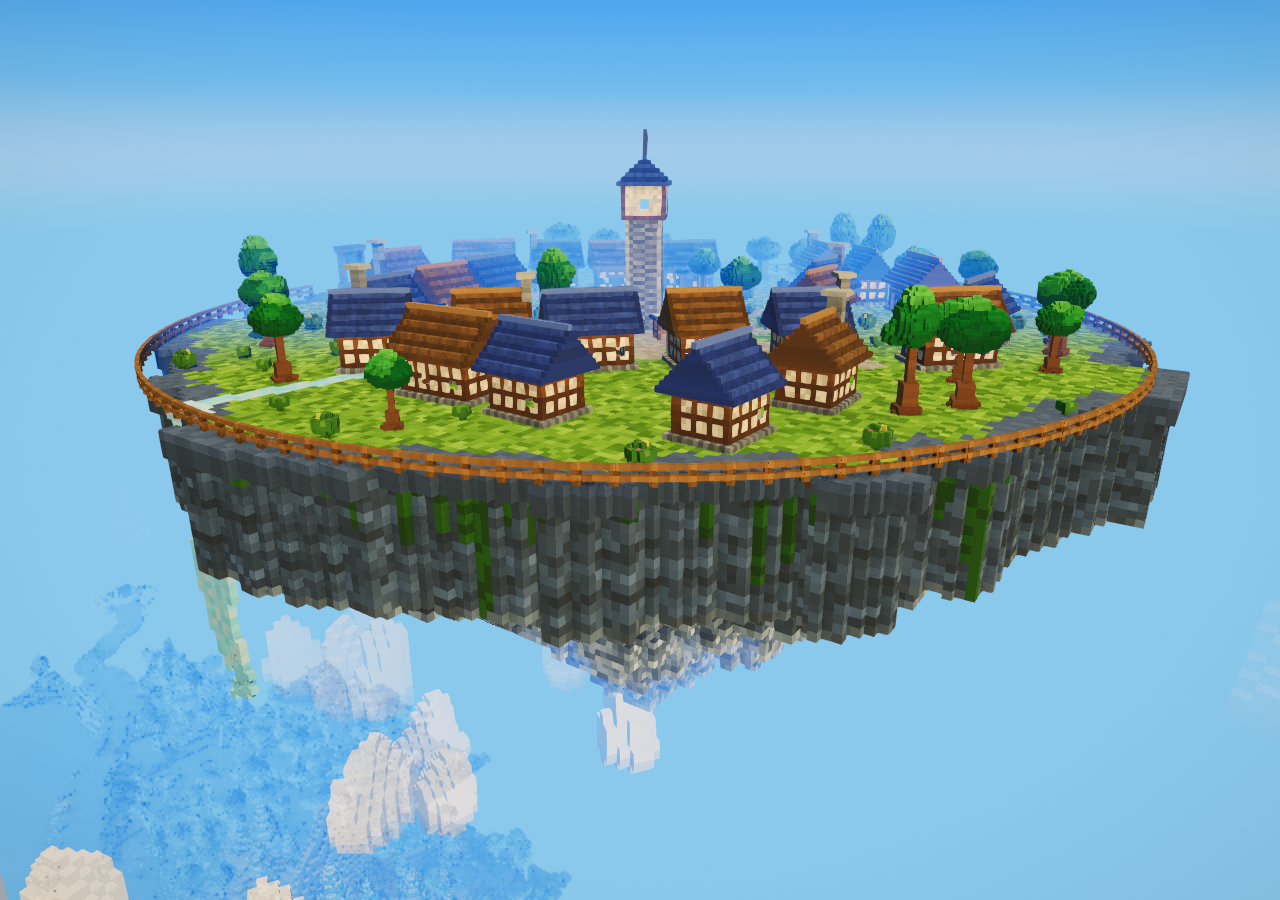
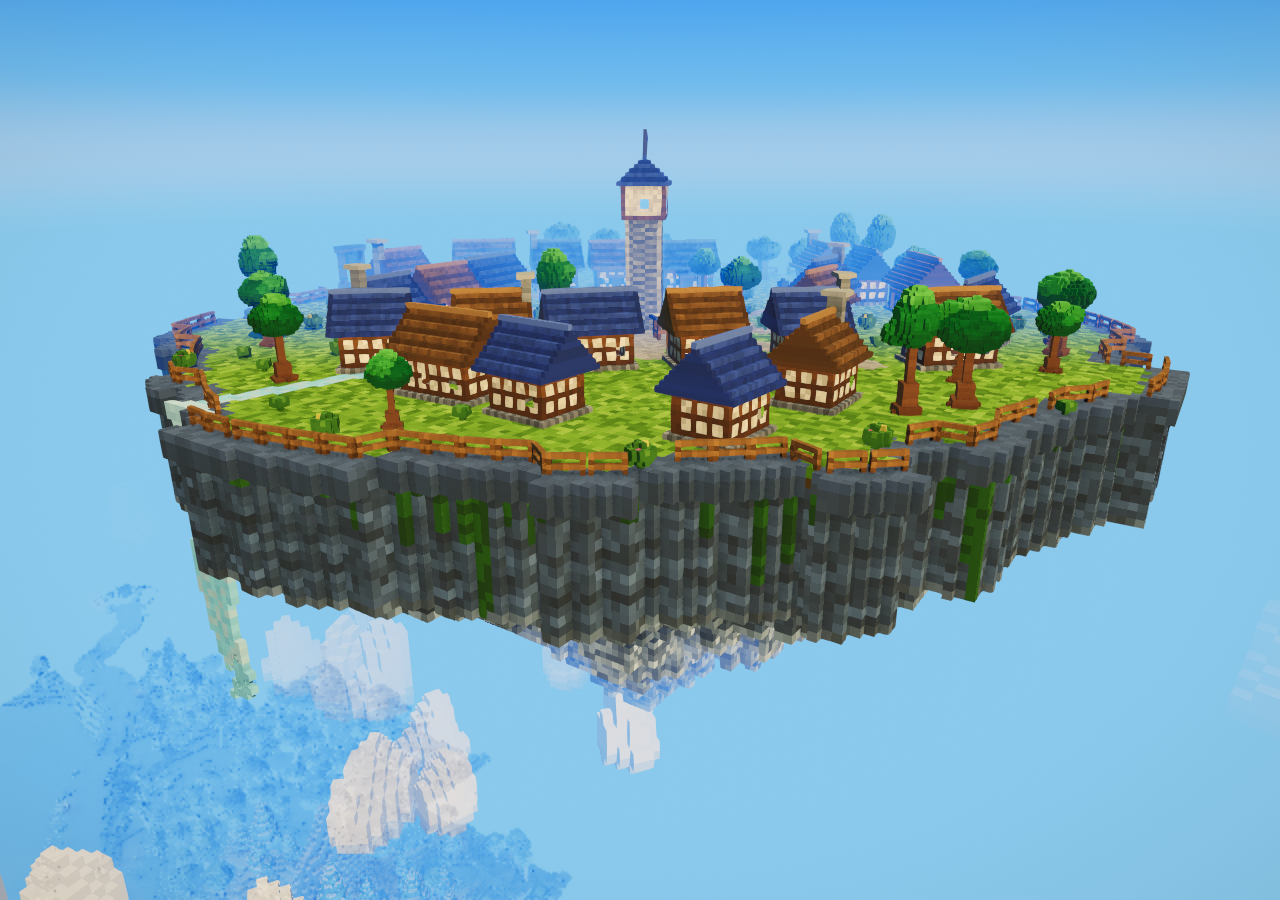
The fence follows the coast, the mount stays under its rider, and the island's colliders are drawable
Four fixes, three of them the same shape: something that was exact while every
built thing stood on the ground, and stopped being exact once a settlement
started flying over it.

THE FENCE HUNG IN OPEN AIR. Panels were placed on a circle at `ISLAND_R *
0.93`, and the island is not a circle — `outlineAt` carries four harmonics
summing to as much as a third of the radius, so a constant fraction is inside
the land on one bearing and out past the cliff on the next. The rim is WALKED
now: step the bearing finely, take the coast's own radius at each step, and
drop a panel every time the accumulated distance reaches one panel's length.
That fixes the spacing too, which a constant angular step gets wrong the
moment the radius varies. Both ENDS of each panel are tested for ground, not
just its centre: a panel is a straight chord across a curve, so on a tight
inside bend its ends reach further out than its middle does.

THE MOUNT DRIFTED OUT FROM UNDER ITS RIDER IN A MENU. `carry` moved the saddle
and re-seated the hero, but a beast's rig is only written by `rideUpdate`,
which lives in `updateRide` and a modal skips. So on the island the position
and the rider travelled and the animal stayed where it was. `poseBeast` is
that push extracted, and `carryFrozen` — the frozen path only — calls it.
Deliberately NOT on the ordinary path, where `updateRide` already does it:
calling both would run the animal's animation clock at double rate.
[…]

Changed region(s): [[0.0938, 0.3422, 0.9375, 0.56], [0.7812, 0.3111, 0.8125, 0.3422], [0.2188, 0.3111, 0.25, 0.3422]]

diff --git a/src/world/sky-island.ts b/src/world/sky-island.ts
@@ -794,7 +794,22 @@ const HOUSE_R = 7.2;
  * in the middle, roofs at several angles, streets converging, a tree line, and
  * a gate that tells you which side is the front.
  */
-function planSkyhaven(seed: number, parts: SkyParts, lib: PropLib): SkyPlan {
+/**
+ * @param onDeck Is there ground under this point? THE PLAN HAS TO BE ABLE TO
+ *   ASK. Everything here used to be placed on a radius — a fence at 0.93 of the
+ *   radius, trees at 0.74 — which is exact only if the island is a circle, and
+ *   it deliberately is not: `outlineAt` carries four harmonics summing to as
+ *   much as a third of the radius, so a ring drawn at a constant fraction is
+ *   inside the land on one bearing and out over the drop on the next. That is
+ *   the fence hanging in mid-air over the void.
+ * @param rimAt The rim's world radius at a bearing, so the fence can follow the
+ *   coast instead of cutting across it.
+ */
+function planSkyhaven(
+  seed: number, parts: SkyParts, lib: PropLib,
+  onDeck: (x: number, z: number) => boolean,
+  rimAt: (bearing: number) => number,
+): SkyPlan {
   const rng = mulberry32(seed ^ 0x5c17);
   const buildings: Array<{ t: Template; x: number; z: number; yaw: number; s?: number }> = [];
   const paths: Array<readonly [number, number, number, number]> = [];
@@ -965,39 +980,60 @@ function planSkyhaven(seed: number, parts: SkyParts, lib: PropLib): SkyPlan {
   }
 
   // -- the rim fence --------------------------------------------------------
-  // ONE CONTINUOUS RAIL AROUND THE RIM, broken only by what is actually in its
-  // way. It marks the edge; it does not close it — you can still walk off,
-  // because the rail is a low one and the gaps at the gate and the fall are
-  // real openings rather than decoration.
+  // ONE CONTINUOUS RAIL, WALKED ALONG THE ACTUAL COAST. It marks the edge; it
+  // does not close it — the rail is low, and the breaks at the gate and at
+  // whatever the tree line put on the rim are real openings.
   //
-  // THE YAW IS THE BEARING, NOT THE BEARING PLUS A QUARTER TURN, and that was a
-  // real bug rather than a taste: `skyFence` paints its posts and rails along
-  // its LOCAL +X, and the stamp maps local +X to world (cos yaw, -sin yaw)
-  // (see `Accum.add`). The rim's tangent at bearing `a` is (cos a, -sin a), so
-  // the panel runs along the rim exactly when `yaw === a`. At `a + PI/2` local
-  // +X maps to the RADIAL direction instead, so every panel stood at right
-  // angles to the edge — a ring of rails pointing out over the drop like the
-  // spokes of a wheel, which is what shipped.
+  // IT USED TO BE A CIRCLE AND THE ISLAND IS NOT ONE. Panels were placed at a
+  // constant `ISLAND_R * 0.93`, which is inside the land on one bearing and out
+  // over the drop on the next, because `outlineAt` carries four harmonics
+  // summing to as much as a third of the radius. Whole runs of fence hung in
+  // open air past the cliff. So the rim is WALKED: step the bearing finely,
+  // take the coast's own radius at each step, and drop a panel every time the
+  // accumulated distance reaches one panel's length. That also fixes the
+  // spacing, which a constant angular step gets wrong the moment the radius
+  // varies — the same number of panels over a longer arc is a gappy fence.
   //
-  // THE PANELS OVERLAP SLIGHTLY. A panel is 7 cells of `SV` = 4.2 units long
-  // and it is a straight chord across an arc, so spacing them at exactly their
-  // own length leaves a hair of daylight at every joint and the run reads as
-  // separate pieces. Dividing by 3.9 rather than 4.2 laps them by about 7%,
-  // which is under half a post and reads as one rail.
-  const fenceR = ISLAND_R * 0.93;
-  const panels = Math.round((Math.PI * 2 * fenceR) / 3.9);
-  for (let k = 0; k < panels; k++) {
-    const a = (k / panels) * Math.PI * 2;
-    const x = Math.sin(a) * fenceR;
-    const z = Math.cos(a) * fenceR;
-    // The only breaks are things that are genuinely there: the gate and its
-    // approach, and whatever the tree line has put on the rim. Probed tightly
-    // (1.2 rather than 2.4) because the point is a continuous run — a generous
-    // probe punches holes in it for props that merely stand nearby.
-    if (!free(x, z, 1.2)) continue;
-    // A whisker of lean, so it is a built fence rather than a lathe-turned
-    // ring. Small enough that neighbouring panels still meet.
-    fences.push({ x, z, yaw: a + (hash2(k, 1, 97) - 0.5) * 0.05 });
+  // THE YAW IS THE DIRECTION OF TRAVEL. `skyFence` paints along its local +X
+  // and the stamp maps local +X to world (cos yaw, -sin yaw), so a panel lies
+  // along a heading (ux, uz) exactly when `yaw = atan2(-uz, ux)`. It was the
+  // bearing plus a quarter turn once, which maps +X to the RADIAL direction: a
+  // ring of rails standing out over the edge like the spokes of a wheel.
+  {
+    /** How far inside the coast the posts stand, in world units. */
+    const INSET = 3.2;
+    /** Panel length: 7 cells of `SV`, lapped a little so the joints close. */
+    const SPACING = 7 * 0.6 * 0.94;
+    const rimPt = (a: number): [number, number] => {
+      const r = Math.max(2, rimAt(a) - INSET);
+      return [Math.sin(a) * r, Math.cos(a) * r];
+    };
+    const STEPS = 720;
+    let [lx, lz] = rimPt(0);
+    for (let i = 1; i <= STEPS; i++) {
+      const a = (i / STEPS) * Math.PI * 2;
+      const [x, z] = rimPt(a);
+      const dx = x - lx;
+      const dz = z - lz;
+      const d = Math.hypot(dx, dz);
+      if (d < SPACING) continue;
+      const ux = dx / d;
+      const uz = dz / d;
+      const mx = (x + lx) * 0.5;
+      const mz = (z + lz) * 0.5;
+      lx = x;
+      lz = z;
+      // BOTH ENDS ON GROUND, not just the middle. A panel is a straight chord
+      // across a curve, so on a tight inside bend its ends reach further out
+      // than its centre does — testing the centre alone is what would leave the
+      // corners of a run poking off the cliff.
+      const hx = ux * SPACING * 0.5;
+      const hz = uz * SPACING * 0.5;
+      if (!onDeck(mx - hx, mz - hz) || !onDeck(mx + hx, mz + hz)) continue;
+      // ...and nothing across the gate, or through whatever else claimed the rim.
+      if (!free(mx, mz, 1.2)) continue;
+      fences.push({ x: mx, z: mz, yaw: Math.atan2(-uz, ux) });
+    }
   }
 
   // THE FALL IS ON THE FRONT QUARTER, beside the gate, and that is a framing
@@ -1291,6 +1327,9 @@ const NO_ROADS: RoadClearance = {
   spanDistanceTo: () => Infinity,
 };
 
+/** Scratch for `SkyIsland.debugStructures`. Debug path, but free is free. */
+const _dbg = { x: 0, z: 0 };
+
 export class SkyIsland extends CarrierBody implements NpcFrame {
   /** The settlement's public face — name, colour, radius. Its x/z are LIVE. */
   readonly town: SkyTownInfo;
@@ -1370,7 +1409,14 @@ export class SkyIsland extends CarrierBody implements NpcFrame {
       bushes: [skyBush(false), skyBush(true)],
       smoke: skySmoke(),
     };
-    const plan = planSkyhaven(seed, parts, props);
+    const plan = planSkyhaven(
+      seed, parts, props,
+      // The deck's own answer, so the plan and the rock cannot disagree about
+      // where the ground stops — `deckAt` is the same function `localTop` feeds
+      // the step test from.
+      (x, z) => this.deckAt(x, z) > -Infinity,
+      (a) => outlineAt(a, this.phase) * CELL,
+    );
     this.buildRock(plan);
 
     // -- the settlement, in local coordinates -------------------------------
@@ -1572,6 +1618,39 @@ export class SkyIsland extends CarrierBody implements NpcFrame {
 
   setVisible(v: boolean): void {
     this.root.visible = v;
+  }
+
+  /**
+   * Append this island's solid boxes to `out`, IN WORLD SPACE, in the same
+   * `[cx, cz, hx, hz, yaw, topY]` layout `StructureField.debugBoxes` uses.
+   *
+   * THE TRANSFORM IS THE WHOLE POINT. Everything the settlement stamped lives
+   * in the island's own frame, so handing the debug overlay the field's raw
+   * boxes would draw the town's cages wherever the island's origin happens to
+   * be relative to the world's — which is nowhere near the island. This is the
+   * one place a carrier's contents have to be published in world coordinates,
+   * and it is a debug path, so it may allocate and iterate freely.
+   *
+   * `/show-colliders` showed NOTHING on the island before this: the island's
+   * field was simply not in `World.debugStructures`, which asked the towns, the
+   * dens and the ground NPCs and knew nothing about a carrier. An overlay that
+   * silently omits a whole settlement is worse than one that draws it wrong,
+   * because the first reads as "there is no collision here".
+   */
+  debugStructures(out: number[]): void {
+    const local: number[] = [];
+    this.solids.debugBoxes(local);
+    this.npcs?.solids.debugBoxes(local);
+    for (let i = 0; i < local.length; i += 6) {
+      this.toWorld(local[i], local[i + 1], _dbg);
+      out.push(
+        _dbg.x, _dbg.z, local[i + 2], local[i + 3],
+        // A local bearing `a` comes out as `a + yaw` under the stamp's own map,
+        // which is the same rule `StructureField.add` applies to a ridge.
+        local[i + 4] + this.yaw,
+        local[i + 5] + this.y,
+      );
+    }
   }
 
   dispose(): void {

diff --git a/src/main.ts b/src/main.ts
@@ -2709,7 +2709,7 @@ function simulate(dt: number, first: boolean, interactive: boolean): void {
   // the hero's position), and is a no-op otherwise — so exactly one of these
   // two moves him, which is the same split `Player.update` makes.
   if (!interactive || modal) {
-    mount.carry();
+    mount.carryFrozen(dt);
     if (!mount.isMounted) player.carry();
     // ...and the LENS follows him, which `player.update` would have done and is
     // not going to. Skipped in photo mode, which drives the camera itself and
@@ -3550,9 +3550,15 @@ beginPlay();
   structures: ((): unknown => {
     const b: number[] = [];
     world.debugStructures(b);
-    const within = (x: number, z: number, r: number): number => {
+    // BANDED IN HEIGHT, for the reason `__dbgStructures` states at length: a
+    // carried settlement flying over a ground one lands inside its radius and
+    // is counted as its colliders. `y` is the town's own level, so a CARRIED
+    // town bands around its own deck and gets its own boxes rather than the
+    // ground's.
+    const within = (x: number, y: number, z: number, r: number): number => {
       let n = 0;
       for (let i = 0; i < b.length; i += 6) {
+        if (Math.abs(b[i + 5] - y) > 60) continue;
         if (Math.hypot(b[i] - x, b[i + 1] - z) <= r) n++;
       }
       return n;
@@ -3561,7 +3567,7 @@ beginPlay();
       boxes: b.length / 6,
       perTown: world.towns.all.map((town) => ({
         id: town.id,
-        boxes: within(town.x, town.z, town.radius + 4),
+        boxes: within(town.x, town.y, town.z, town.radius + 4),
       })),
     };
   })(),
@@ -3826,9 +3832,23 @@ const _surfDown = new THREE.Vector3(0, -1, 0);
   const b: number[] = [];
   world.debugStructures(b);
   const out: Array<Record<string, number>> = [];
+  // A COLUMN, NOT A DISC. This asked a purely horizontal question, which was
+  // exact for as long as everything built in the world stood on the ground —
+  // and stopped being exact the day a settlement started flying over it. With
+  // the island overhead, its two hundred-odd boxes fall inside the radius of
+  // whatever ground town it happens to be above and are reported as that
+  // town's: measured, the Encampment came back with 73 colliders against its
+  // budget of 64, and nothing had been built in it.
+  //
+  // So the query is banded. `CEILING` is generous — a tower is 24 units and a
+  // roof ridge a few more — and the island cruises at 190, so there is no
+  // ambiguity to resolve, only a line to draw.
+  const CEILING = 60;
+  const ground = world.getHeight(x, z);
   for (let i = 0; i < b.length; i += 6) {
     const d = Math.hypot(b[i] - x, b[i + 1] - z);
     if (d > r) continue;
+    if (b[i + 5] > ground + CEILING) continue;
     out.push({
       x: +b[i].toFixed(2), z: +b[i + 1].toFixed(2),
       hx: +b[i + 2].toFixed(2), hz: +b[i + 3].toFixed(2),

diff --git a/src/player/mount.ts b/src/player/mount.ts
@@ -267,11 +267,25 @@ export class MountController {
    *
    * A no-op when nothing is being ridden; the hero carries himself then.
    */
-  carry(): void {
+  carryFrozen(dt: number): void {
     if (!this.beast) return;
+    this.carryFrame();
+    // THE ANIMAL TOO, not just the saddle. `seatHero` alone moves the rider and
+    // leaves the beast wherever its rig was last written, which is what put a
+    // hovering mount adrift under a frozen player. It also keeps the wings
+    // beating, which is consistent with the rest of the party: a follower is
+    // never frozen by a modal either.
+    //
+    // ONLY ON THE FROZEN PATH. `updateRide` poses the beast at the end of every
+    // ordinary slice, so doing it here as well would call `rideUpdate` twice a
+    // slice and run the animal's whole animation clock at double rate.
+    this.poseBeast(dt);
+  }
+
+  /** The carrier's delta applied to the saddle. See `CarrierRide`. */
+  private carryFrame(): void {
     this.carrier.carry(this.world, this.pos);
     this.yaw += this.carrier.dyaw;
-    this.seatHero();
   }
 
   /** Take the pending Space edge, if any. One press, one jump. */
@@ -309,7 +323,7 @@ export class MountController {
       // his own while mounted — `seatHero` places him off `this.pos` at the end
       // of the ride, and `Player.update` skips its own frame while mounted, so
       // applying it here applies it exactly once.
-      this.carry();
+      this.carryFrame();
       // A tap of F gets off. The F that MOUNTED you is still down at this
       // point, and no edge can be produced from it because fWasHeld was already
       // true when the mount happened — you have to let go and press again.
@@ -517,6 +531,25 @@ export class MountController {
     this.speed01 = Math.min(1, speed / Math.max(0.001, this.topSpeed));
 
     // ---- hand the beast its pose, and sit the hero on top of it ----
+    this.poseBeast(dt);
+  }
+
+  /**
+   * Write this slice's saddle pose onto the beast, and seat the rider on it.
+   *
+   * EXTRACTED BECAUSE TWO PATHS NEED IT AND ONE OF THEM WAS MISSING IT. The
+   * mount's POSITION lives in `this.pos` and the beast's rig only learns about
+   * it here, through `rideUpdate` — so `carry`, which moves `this.pos` with a
+   * carrier while the controller is frozen, moved the saddle and the rider and
+   * left the animal behind. On a flying island in a menu that reads as the
+   * mount sliding out from under its own rider, which is exactly what was
+   * reported.
+   *
+   * `seatHero` last, because it places the hero FROM `this.pos`.
+   */
+  private poseBeast(dt: number): void {
+    const beast = this.beast;
+    if (!beast) return;
     const s = this.ride;
     s.x = this.pos.x; s.y = this.pos.y; s.z = this.pos.z;
     s.yaw = this.yaw; s.pitch = this.pitch; s.bank = this.bank;

diff --git a/src/core/collider-view.ts b/src/core/collider-view.ts
@@ -33,8 +33,22 @@ import type { World } from './types';
 
 /** Segments around a collider ring. 16 reads as a circle without being costly. */
 const RING_SEGMENTS = 16;
-/** How often the set is rebuilt while visible, in seconds. */
+/**
+ * How often the set is rebuilt while visible, in seconds.
+ *
+ * TWO RATES, BECAUSE THERE ARE TWO KINDS OF COLLIDER. Chunks stream in and out
+ * over seconds, so half a second is plenty to keep up with the world and cheap
+ * enough that the overlay costs nothing. A CARRIER moves every slice, and at
+ * half a second its cages trail the island they belong to by up to half a
+ * second of travel — near enough to look like the collision is in the wrong
+ * place, which is the exact question this overlay exists to answer. So a world
+ * with anything moving in it rebuilds every frame.
+ *
+ * It is a debug overlay either way: the cost is one rebuild of a few hundred
+ * rings, and only while `/show-colliders` is up.
+ */
 const REFRESH_SECONDS = 0.5;
+const REFRESH_MOVING = 0;
 /** Rings up the height of a collider, so it reads as a volume not a footprint. */
 const RINGS = 3;
 /**
@@ -101,7 +115,7 @@ export class ColliderView {
     if (!this.visible) return;
     this.timer -= dt;
     if (this.timer <= 0) {
-      this.timer = REFRESH_SECONDS;
+      this.timer = this.world.carriers.all.length > 0 ? REFRESH_MOVING : REFRESH_SECONDS;
       this.rebuild();
     }
   }

diff --git a/src/world/index.ts b/src/world/index.ts
@@ -1079,6 +1079,9 @@ export function createWorld(
       // the collision would be worse than no picture.
       if (!flags.solids) return;
       towns?.solids.debugBoxes(out);
+      // ...and whatever is being carried, transformed into world space by the
+      // carrier itself. See `SkyIsland.debugStructures`.
+      sky?.debugStructures(out);
       // The dens and the people too: all three block by the same primitive, so
       // /show-colliders has to draw them or the overlay would disagree with the
       // collision.
